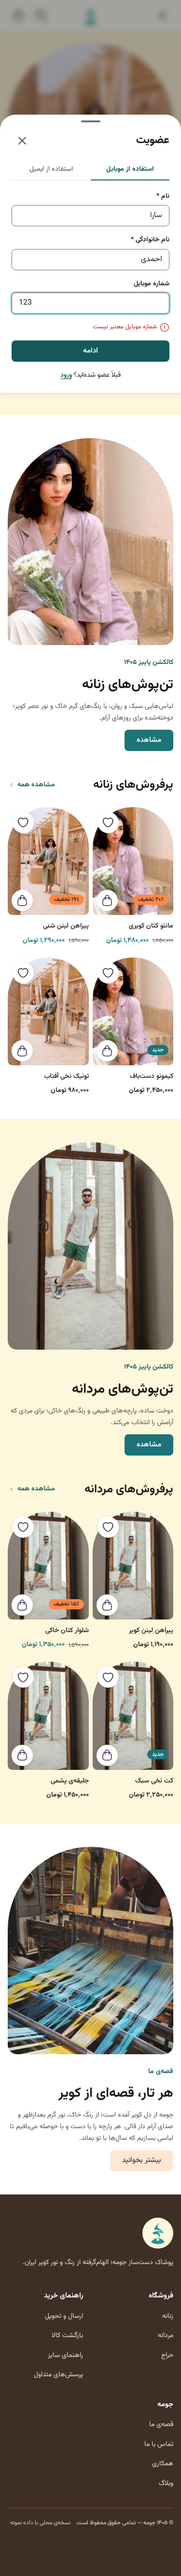
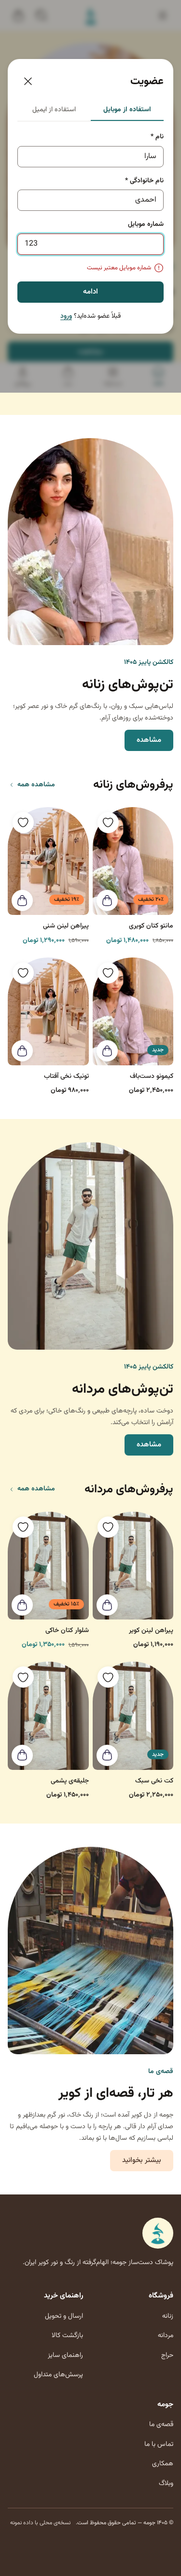
Round 3: centred mobile auth card (108:6003); demo OTP explicit opt-in, forced off on Vercel; tests, axe, shots, reports

Changed region(s): [[0.0, 0.0, 1.0, 0.1558]]

diff --git a/tests/api.test.ts b/tests/api.test.ts
@@ -1,4 +1,4 @@
-import { describe, it, expect, beforeEach } from 'vitest';
+import { describe, it, expect, afterEach, beforeEach } from 'vitest';
 import request from 'supertest';
 import { createDb, all } from '../server/db';
 import { createApp } from '../server/app';
@@ -6,7 +6,7 @@ import { ConsoleSmsAdapter } from '../server/sms';
 import type { Database } from 'sql.js';
 
 let db: Database; let app: ReturnType<typeof createApp>; let sms: ConsoleSmsAdapter; let clock = 1_800_000_000_000;
-beforeEach(async () => { db = await createDb(); sms = new ConsoleSmsAdapter(); clock = 1_800_000_000_000; app = createApp(db, { sms, now: () => clock }); });
+beforeEach(async () => { db = await createDb(); sms = new ConsoleSmsAdapter(); clock = 1_800_000_000_000; app = createApp(db, { sms, now: () => clock, demoOtp: true }); }); // tests opt in to the demo OTP explicitly
 async function login(phone = '09123456789') {
   const r = await request(app).post('/api/auth/otp/request').send({ phone });
   const v = await request(app).post('/api/auth/otp/verify').send({ phone, code: r.body.data.devCode });
@@ -102,6 +102,20 @@ describe('auth — e-mail OTP mock (BD-21 stub) and filters (round 1)', () => {
     const pr = (await request(app).get('/api/products?category=women&minPrice=1000000&maxPrice=1500000')).body;
     expect(pr.total).toBeGreaterThan(0); expect(pr.data.every((p: { price: number }) => p.price >= 1000000 && p.price <= 1500000)).toBe(true);
   });
+});
+
+describe('demo OTP is opt-in only (round 3, R2-2)', () => {
+  const env = { ...process.env };
+  afterEach(() => { process.env = { ...env }; });
+  const req = async (a: ReturnType<typeof createApp>) => (await request(a).post('/api/auth/otp/request').send({ phone: '09124444444' })).body;
+  it('no code by default (env unset)', async () => { delete process.env.JOUMEH_DEMO_OTP; const b = await req(createApp(await createDb())); expect(b.data.phone).toBe('09124444444'); expect(b.data).not.toHaveProperty('devCode'); });
+  it('no code with NODE_ENV=production', async () => { delete process.env.JOUMEH_DEMO_OTP; process.env.NODE_ENV = 'production'; expect((await req(createApp(await createDb()))).data).not.toHaveProperty('devCode'); });
+  it('no code with NODE_ENV=development unless opted in', async () => { delete process.env.JOUMEH_DEMO_OTP; process.env.NODE_ENV = 'development'; expect((await req(createApp(await createDb()))).data).not.toHaveProperty('devCode'); });
+  it('JOUMEH_DEMO_OTP=1 opts in; any other value does not', async () => {
+    process.env.JOUMEH_DEMO_OTP = 'true'; expect((await req(createApp(await createDb()))).data).not.toHaveProperty('devCode');
+    process.env.JOUMEH_DEMO_OTP = '1'; expect((await req(createApp(await createDb()))).data.devCode).toMatch(/^\d{6}$/);
+  });
+  it('e-mail OTP follows the same rule', async () => { delete process.env.JOUMEH_DEMO_OTP; const r = await request(createApp(await createDb())).post('/api/auth/email/request').send({ email: 'sara@example.com' }); expect(r.status).toBe(201); expect(r.body.data).not.toHaveProperty('devCode'); });
 });
 
 describe('signup (round 2, 107:773)', () => {

diff --git a/server/app.ts b/server/app.ts
@@ -26,11 +26,14 @@ const SORTS: Record<string, string> = {
 };
 const CATALOG_STUBS = { stock: stub('BD-16'), reviews: stub('BD-15'), sizeChart: stub('BD-18'), shipping: stub('BD-02'), returns: stub('BD-04') };
 
-export type Deps = { sms?: SmsAdapter; payment?: PaymentProvider; now?: () => number };
+export type Deps = { sms?: SmsAdapter; payment?: PaymentProvider; now?: () => number;
+  /** Return/log the mock OTP code. Default: JOUMEH_DEMO_OTP=1 only (off everywhere else). The Vercel handler forces false. */
+  demoOtp?: boolean };
 type AuthedReq = Request & { userId?: number };
 
 export function createApp(db: Database, deps: Deps = {}) {
-  const sms = deps.sms ?? new ConsoleSmsAdapter();
+  const demoOtp = deps.demoOtp ?? config.demoOtp;
+  const sms = deps.sms ?? new ConsoleSmsAdapter(demoOtp);
   const pay = deps.payment ?? new MockProvider();
   const now = deps.now ?? (() => Date.now());
   const app = express();
@@ -147,7 +150,7 @@ export function createApp(db: Database, deps: Deps = {}) {
     const code = String(randomInt(0, 10 ** config.otpLength)).padStart(config.otpLength, '0');
     db.run('INSERT INTO otp_requests (phone,code_hash,expires_at,created_at) VALUES (?,?,?,?)', [key, sha(key + code), t + config.otpTtlSeconds * 1000, t]);
     send(code);
-    res.status(201).json({ data: { ...extra, expiresIn: config.otpTtlSeconds, resendIn: config.otpTtlSeconds, codeLength: config.otpLength, ...(config.exposeDevOtp ? { devCode: code } : {}) }, stubs: { sms: stub('BD-13'), emailOtp: stub('BD-21') } });
+    res.status(201).json({ data: { ...extra, expiresIn: config.otpTtlSeconds, resendIn: config.otpTtlSeconds, codeLength: config.otpLength, ...(demoOtp ? { devCode: code } : {}) }, stubs: { sms: stub('BD-13'), emailOtp: stub('BD-21') } });
   };
   const check = (res: Response, key: string, code: string): boolean => {
     const r = one<{ id: number; code_hash: string; expires_at: number; attempts: number }>(db, 'SELECT * FROM otp_requests WHERE phone=? AND consumed=0 ORDER BY id DESC LIMIT 1', [key]);
@@ -185,7 +188,7 @@ export function createApp(db: Database, deps: Deps = {}) {
     const email = String(req.body?.email ?? '').trim().toLowerCase();
     if (!EMAIL_RE.test(email)) return bad(res, 'invalid_email', { email: 'ایمیل معتبر نیست' });
     if (!one(db, 'SELECT id FROM users WHERE lower(email)=?', [email])) return res.status(404).json({ error: 'email_not_found' });
-    issue(res, `email:${email}`, code => console.info(`[mock e-mail BD-21] code for ${email}: ${code}`), { email });
+    issue(res, `email:${email}`, code => { if (demoOtp) console.info(`[mock e-mail BD-21] code for ${email}: ${code}`); }, { email });
   });
   app.post('/api/auth/email/verify', (req, res) => {
     const email = String(req.body?.email ?? '').trim().toLowerCase(); const code = toLatin(req.body?.code);

diff --git a/src/styles/global.css b/src/styles/global.css
@@ -77,7 +77,9 @@ textarea.input { padding-block: 10px; min-block-size: 88px; }
 @media (prefers-reduced-motion: reduce) { *, *::before, *::after { animation: none !important; transition: none !important; scroll-behavior: auto !important; } }
 .modal { position: fixed; inset: 0; z-index: 50; background: rgb(28 25 23 / .4); -webkit-backdrop-filter: blur(6px); backdrop-filter: blur(6px); display: grid; place-items: center; padding: 16px; }
 .modal__box { background: #fff; border-radius: var(--r-24); inline-size: min(420px, 100%); padding: 24px; max-block-size: 90vh; overflow: auto; box-shadow: var(--shadow-2); }
-@media (max-width: 767px) { .modal { place-items: end stretch; padding: 0; } .modal__box { inline-size: 100%; border-end-start-radius: 0; border-end-end-radius: 0; } }
+/* Round 3 (R2-1): on mobile only sheets (filter, sort, size guide) dock to the bottom; dialogs (auth 107:1247/1375/1543, confirm) stay a centred 343px card (108:6003). */
+@media (max-width: 767px) { .modal { padding: 16px; } .modal__box:not(.modal__box--sheet) { inline-size: min(343px, 100%); padding: 24px 20px; }
+  .modal:has(> .modal__box--sheet) { place-items: end stretch; padding: 0; } .modal__box--sheet { inline-size: 100%; border-end-start-radius: 0; border-end-end-radius: 0; } }
 .modal__head { display: flex; justify-content: space-between; align-items: center; margin-block-end: 16px; }
 .modal__title { font-size: 22px; font-weight: 800; }
 .tabs { display: grid; grid-template-columns: 1fr 1fr; border-block-end: 1px solid var(--n-200); margin-block-end: 20px; }

diff --git a/tests/api-vercel.test.ts b/tests/api-vercel.test.ts
@@ -9,6 +9,11 @@ describe('Vercel serverless entry (api/index.ts)', () => {
     expect((await request(srv).get('/api/health')).body).toEqual({ ok: true, sampleData: true });
     const r = await request(srv).get('/api/products?category=men'); expect(r.status).toBe(200); expect(r.body.total).toBe(16);
   });
+  it('never returns the demo OTP code, even with JOUMEH_DEMO_OTP=1 set (R2-2)', async () => {
+    const prev = process.env.JOUMEH_DEMO_OTP; process.env.JOUMEH_DEMO_OTP = '1';
+    try { const r = await request(srv).post('/api/auth/otp/request').send({ phone: '09123333333' }); expect(r.status).toBe(201); expect(r.body.data).not.toHaveProperty('devCode'); }
+    finally { if (prev === undefined) delete process.env.JOUMEH_DEMO_OTP; else process.env.JOUMEH_DEMO_OTP = prev; }
+  });
   it('keeps state within one instance (cart round-trip)', async () => {
     const p = (await request(srv).get('/api/products/men-1')).body.data;
     const c = await request(srv).post('/api/cart/items').send({ variantId: p.variants[1].id });

diff --git a/server/config.ts b/server/config.ts
@@ -6,8 +6,9 @@ export const config = {
   otpMaxAttempts: Number(process.env.OTP_MAX_ATTEMPTS ?? 5),
   otpRequestsPerWindow: Number(process.env.OTP_REQUESTS_PER_WINDOW ?? 3),
   otpWindowSeconds: Number(process.env.OTP_WINDOW_SECONDS ?? 600),
-  // Exposes the mock OTP code in the API response for local testing only. Never enable outside local dev.
-  exposeDevOtp: process.env.NODE_ENV !== 'production',
+  // Round 3 (R2-2): demo OTP is an explicit opt-in. OFF unless JOUMEH_DEMO_OTP=1 — regardless of NODE_ENV.
+  // When ON, the mock code is returned in the API response and logged locally. Never set it on a deployed environment.
+  get demoOtp() { return process.env.JOUMEH_DEMO_OTP === '1'; },
   // R-1 DECIDED by the CEO (Mohadeseh, 2026-10-21 02:12 Tehran): discount badge = 20%. Env override kept for testing only.
   r1SampleBadgePercent: process.env.R1_SAMPLE_BADGE_PERCENT === 'none' ? null : Number(process.env.R1_SAMPLE_BADGE_PERCENT ?? 20),
   pageSize: 9, // Figma/KB: 9 items per page (3×3)

diff --git a/server/sms.ts b/server/sms.ts
@@ -2,8 +2,9 @@
 export interface SmsAdapter { sendOtp(phone: string, code: string): void }
 export class ConsoleSmsAdapter implements SmsAdapter {
   sent: { phone: string; at: number }[] = [];
+  constructor(private logCode = false) {} // code is logged only in explicit demo mode (JOUMEH_DEMO_OTP=1)
   sendOtp(phone: string, code: string) {
     this.sent.push({ phone, at: Date.now() });
-    if (process.env.NODE_ENV !== 'test') console.log(`[mock-sms BD-13] OTP for ${phone.slice(0, 4)}***${phone.slice(-2)}: ${code}`);
+    if (this.logCode && process.env.NODE_ENV !== 'test') console.log(`[mock-sms BD-13] OTP for ${phone.slice(0, 4)}***${phone.slice(-2)}: ${code}`);
   }
 }

diff --git a/src/components/AuthModal.tsx b/src/components/AuthModal.tsx
@@ -79,7 +79,7 @@ export function AuthModal() {
   };
   const title = step === 'id' ? (mode === 'signup' ? 'عضویت' : 'ورود') : 'کد تأیید';
   return (
-    <Modal title={title} onClose={close} labelId="auth-title" sheet>
+    <Modal title={title} onClose={close} labelId="auth-title">
       {step === 'done' ? (
         <div className="auth__done" role="status" data-figma="107:1078"><span className="auth__doneic"><Icon name="tick" size={28} /></span><p>ورود موفق</p></div>
       ) : step === 'code' ? (

diff --git a/api/index.ts b/api/index.ts
@@ -6,7 +6,7 @@ import { createDb } from '../server/db';
 import { createApp } from '../server/app';
 let appP: Promise<ReturnType<typeof createApp>> | null = null;
 export default async function handler(req: IncomingMessage, res: ServerResponse) {
-  appP ??= createDb().then(db => createApp(db));
+  appP ??= createDb().then(db => createApp(db, { demoOtp: false })); // R2-2: demo OTP can never be on in the Vercel function
   const app = await appP;
   return app(req as never, res as never);
 }

diff --git a/reports/design-review-2026-10-21.md b/reports/design-review-2026-10-21.md
@@ -164,3 +164,34 @@ Method: same as above. New build screenshots (1280/375) compared with Figma rend
 
 ### Round 1 counts
 Majors 5/5 FIXED. Minors 9 FIXED, 1 accepted interim. Placeholders: P3 PARTIAL; P4 mobile, P6, P8, P9 FIXED; P1, P2, P5 and desktop P4 interim; P7 BLOCKED. New: 1 Major (R1-2) and 3 Minors (R1-3, R1-4, R1-5), plus 1 check (story-image edge line).
+
+---
+## Round 2 verification (commit 0255de8) — 2026-10-21 03:25 Tehran
+Method: as before. New/changed shots compared with Figma renders pulled read-only (107:773, 107:851, 107:1375, 107:941, 108:6003, 245:61112, plus the round 1 renders). I also ran rg on `dist/` and read the source. Visual evidence only; no interaction testing.
+
+| # | Item | Status | Evidence |
+|---|---|---|---|
+| R1-2 | Signup | **PARTIAL** | **Desktop matches.** signup-desktop vs 107:773: «عضویت», the tabs, «نام *», «نام خانوادگی *» (placeholders «مثلاً سارا / مثلاً احمدی»), «شماره موبایل», «ادامه», «قبلاً عضو شدهاید؟ ورود». signup-error vs 107:851: red border, icon and «شماره موبایل معتبر نیست». signup-email follows 107:812 plus a labelled BD-21 note. **Mobile does not match: R2-1.** |
+| R1-3 | OTP spacing / focus | FIXED | auth-code-desktop vs 107:941: tight 6-box row, first box shows the teal focus ring. |
+| R1-4 | Demo code box | FIXED (UI) | `rg "dev-otp\|SMS آزمایشی\|کد محلی" dist/` finds no match. The JSX was dead-code-eliminated; only the inert `{showDevOtpBox:!1}` flag object remains. Not visible in auth-code shots. **Residual risk R2-2** (below). |
+| R1-5 | Size-guide title | FIXED | size-guide-desktop: no title row, close only, as in 245:61044. Mobile sheet keeps «راهنمای سایز», which is correct: 245:61112 shows the handle, «راهنمای سایز» and a close button. |
+| M4 | Story-image edge line | FIXED | Zoomed home-desktop: clean arch edge. The texture at the top is the loom's warp threads (photo content), not a fringe. |
+
+### New findings
+- **R2-1 (Major, pattern mismatch): mobile auth is a bottom sheet, but Figma shows a centred modal.**
+  - Figma: Auth / Modal on Home / Mobile **108:6003** shows the modal as a centred card with side margins over the dimmed page, with no drag handle. The mobile variants (107:1247 login, 107:1375 signup, 107:1543 verify…) are 343-wide cards with all corners rounded.
+  - Build: signup, signup-error, signup-email, auth-modal and auth-code on mobile all render as a bottom sheet with a drag handle.
+  - This dates from round 1 (my round-1 P3 note didn't catch it).
+  - Fix: render the mobile auth/verify/signup modal as the centred card per 108:6003. Bottom sheets stay only where the design uses them (filter 69:15362, sort, size guide 245:61112).
+- **R2-2 (engineering, not design fidelity): demo code can still reach the client through the API.**
+  - The API still returns `devCode` whenever `NODE_ENV !== 'production'` (`server/config.ts:10` → `server/app.ts:150`).
+  - Nothing in `api/` or `vercel.json` sets NODE_ENV, so whether the code is exposed on a deployed preview depends on the runtime default.
+  - Recommend an explicit opt-in flag (off by default) and an API test asserting no `devCode` in production mode. Flag for Alex/QA; deploy itself needs CEO approval anyway.
+- No other regressions seen in the changed shots (home, auth-code, size-guide-desktop).
+
+### Sign-off status
+**Not yet signed off: one Major remains (R2-1, mobile auth presentation).** Everything else matches Figma on the screenshot evidence, except the interim and BLOCKED items:
+- Interim: payment (P1), confirmation (P2), carousel controls (P5), desktop filter (P4), city text field (D2), 9 sample categories (BD-18), timer ۰۲:۰۰ (BD-13).
+- BLOCKED for the CEO: BD-01/02/03/06/07/11/14/15/18/21/24 and support tickets (P7).
+
+Once R2-1 is fixed and re-shot, I expect to give design-match approval with those exceptions. R2-2 should be closed before any deploy.

diff --git a/reports/fixes-round-3.md b/reports/fixes-round-3.md
@@ -1,0 +1,20 @@
+# Fixes — round 3 (Emma's «Round 2 verification», 2026-10-21)
+Status: **Review**. Figma read-only. Local commit only; no push or deploy.
+
+## Results (production build, `vite preview` + local API started with the explicit opt-in `npm run api:demo`)
+- tsc clean · build OK · vitest **63/63** (+6: demo-OTP opt-in rules ×5, Vercel handler never returns a code ×1)
+- Playwright + axe: **76 renders, 0 violations**, 0 unexpected console errors, no overflow
+- Browser flow **27/27** (new: on mobile, the auth dialogs are a centred 343px card with no handle, while the filter stays a full-width bottom sheet)
+- Manual check: the API started **without** the flag returns no `devCode` and logs no code (`{"data":{"phone":…,"expiresIn":120,"resendIn":120,"codeLength":6},…}`; 0 `mock-sms` log lines).
+
+## Items
+| # | Item | Status | Change | Evidence |
+|---|---|---|---|---|
+| R2-1 (Major) | Mobile auth modals | FIXED | Sign-in, signup (mobile + email) and code step are no longer sheets. On ≤767px they are a centred card, `min(343px, 100%)` wide, 16px margin on all sides, all corners rounded, no drag handle (108:6003; 107:1247 / 107:1375 / 107:1543). Confirm dialogs (logout, delete address) follow the same rule. Only filter, sort and size guide stay bottom sheets. | `auth-modal-mobile`, `signup-mobile`, `signup-error-mobile`, `signup-email-mobile`, `auth-code-mobile`; flow geometry step |
+| R2-2 (Security) | Demo OTP exposure | FIXED | `config.demoOtp` = `JOUMEH_DEMO_OTP === '1'` only. It no longer depends on `NODE_ENV`, so it is OFF by default everywhere. `createApp(db, { demoOtp })` lets tests opt in explicitly. The Vercel handler `api/index.ts` forces `demoOtp: false`, even if the variable is set. Code logging (SMS console adapter, mock e-mail) follows the same flag, so no codes in logs by default. `vercel.json` is unchanged and sets nothing. `.env.example` documents the name only. Local opt-in: `npm run api:demo`. The e2e scripts exit with an error if the API isn't in demo mode. The front-end demo box is still dev-build-only (round 2). | `tests/api.test.ts` «demo OTP is opt-in only» (unset, NODE_ENV=production, NODE_ENV=development, `=true` rejected, `=1` accepted, e-mail); `tests/api-vercel.test.ts` (no code with `JOUMEH_DEMO_OTP=1`); manual curl above |
+
+## Changed screenshots
+Visibly changed (mobile only): `auth-modal-mobile`, `signup-mobile`, `signup-error-mobile`, `signup-email-mobile`, `auth-code-mobile`. All 76 were retaken; desktop is unchanged.
+
+## Note
+- The email-tab helper line in signup mode still reads «ورود با ایمیل آزمایشی است (BD-21)…» (login wording). Signup by email remains a BD-21 stub.

diff --git a/README.md b/README.md
@@ -11,6 +11,6 @@ npx vite preview --port 4173 & npm run api &   # production build locally
 BASE=http://127.0.0.1:4173 npm run e2e         # Playwright: screenshots + axe (1280 & 375) → reports/shots/
 BASE=http://127.0.0.1:4173 node tests/e2e/flow.mjs   # purchase flow in a real browser
 ```
-Sample login: phone `09123456789` (sample customer «سارا»). The OTP is not sent anywhere (BD-13). It is printed in the API console and shown in the modal while `NODE_ENV` isn't `production`.
+Sample login: phone `09123456789` (sample customer «سارا»). The OTP is not sent anywhere (BD-13). By default no code is returned or logged anywhere (any `NODE_ENV`, and always in the Vercel function). For local testing, opt in explicitly with `npm run api:demo` (`JOUMEH_DEMO_OTP=1`): the API then returns and logs the mock code, and the dev build (`npm run dev`) shows it in the code step. Production builds never show it.
 Vercel (later, needs CEO approval): `vercel.json` builds Vite to `dist/` and serves `api/index.ts` as one function. The DB is in-memory per instance (sample only).
 Flags: `src/config/flags.ts` · decisions: `docs/decision-log.md` · stubs: `server/stubs.ts` · reports: `reports/`.

diff --git a/docs/decision-log.md b/docs/decision-log.md
@@ -23,3 +23,7 @@ All times Asia/Tehran.
 - Signup per Auth/Modal Mode=Signup 107:773 (title «عضویت», footer «قبلاً عضو شدهاید؟ ورود»). E-mail signup is a BD-21 stub.
 - Demo OTP code box is dev-only (`src/config/dev.ts`) and never appears in production builds.
 - Timer ۰۲:۰۰ accepted by Emma (BD-13). Desktop filter stays interim. Sample categories stay labelled BD-18.
+
+## Round 3 (2026-10-21)
+- Mobile auth dialogs are a centred 343px card (108:6003); sheets only for filter, sort and size guide.
+- Demo OTP: explicit opt-in JOUMEH_DEMO_OTP=1, off by default, forced off on Vercel.
